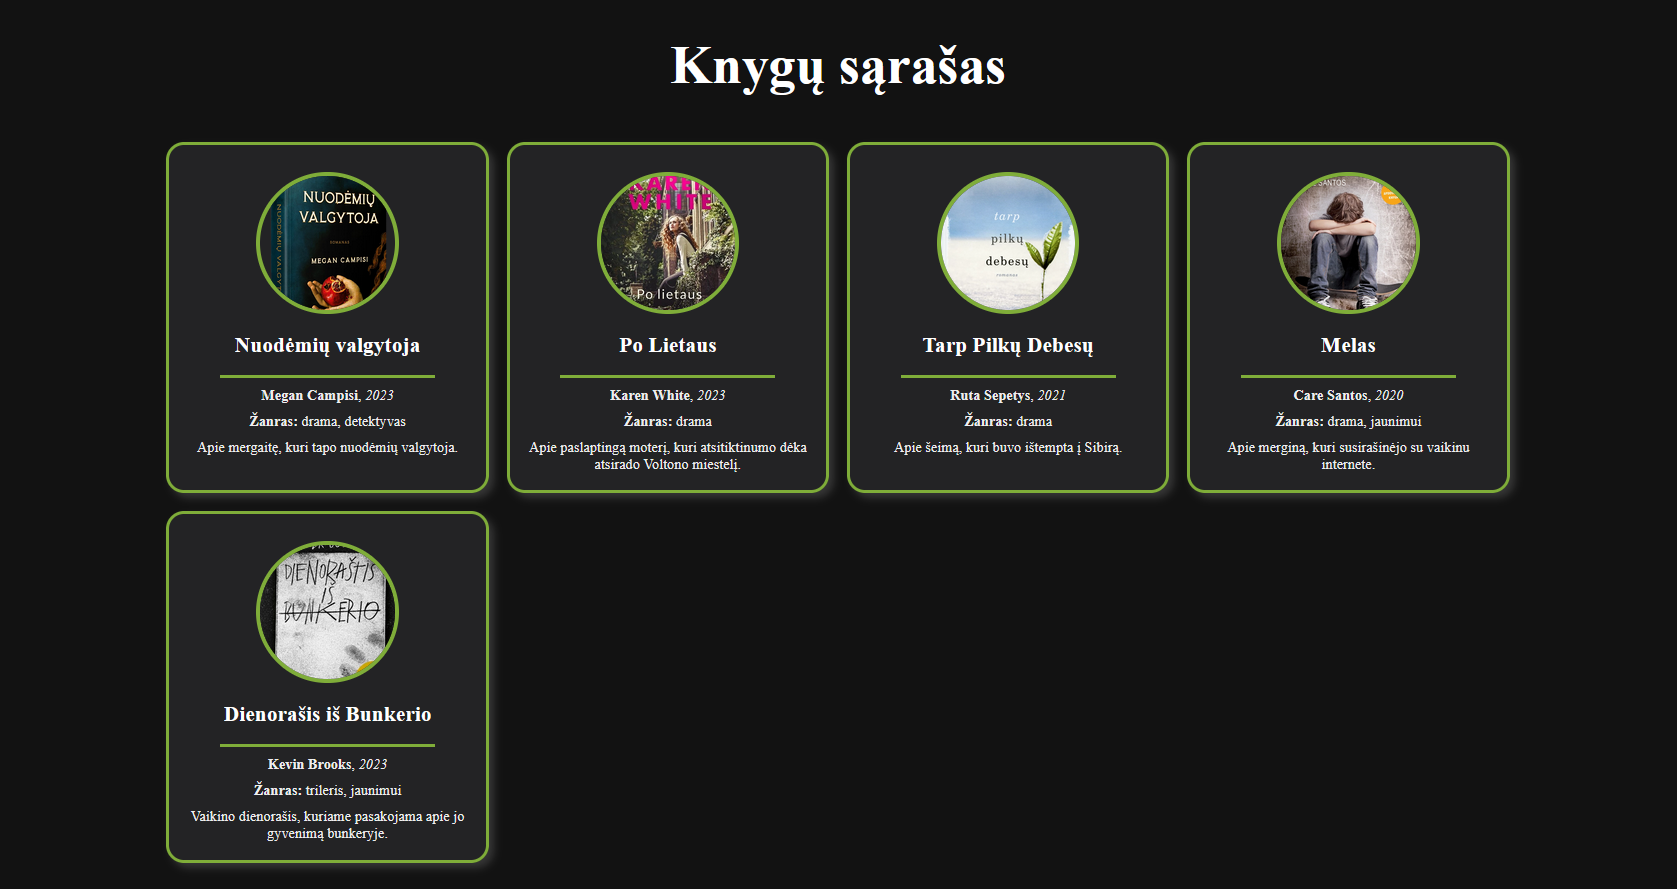
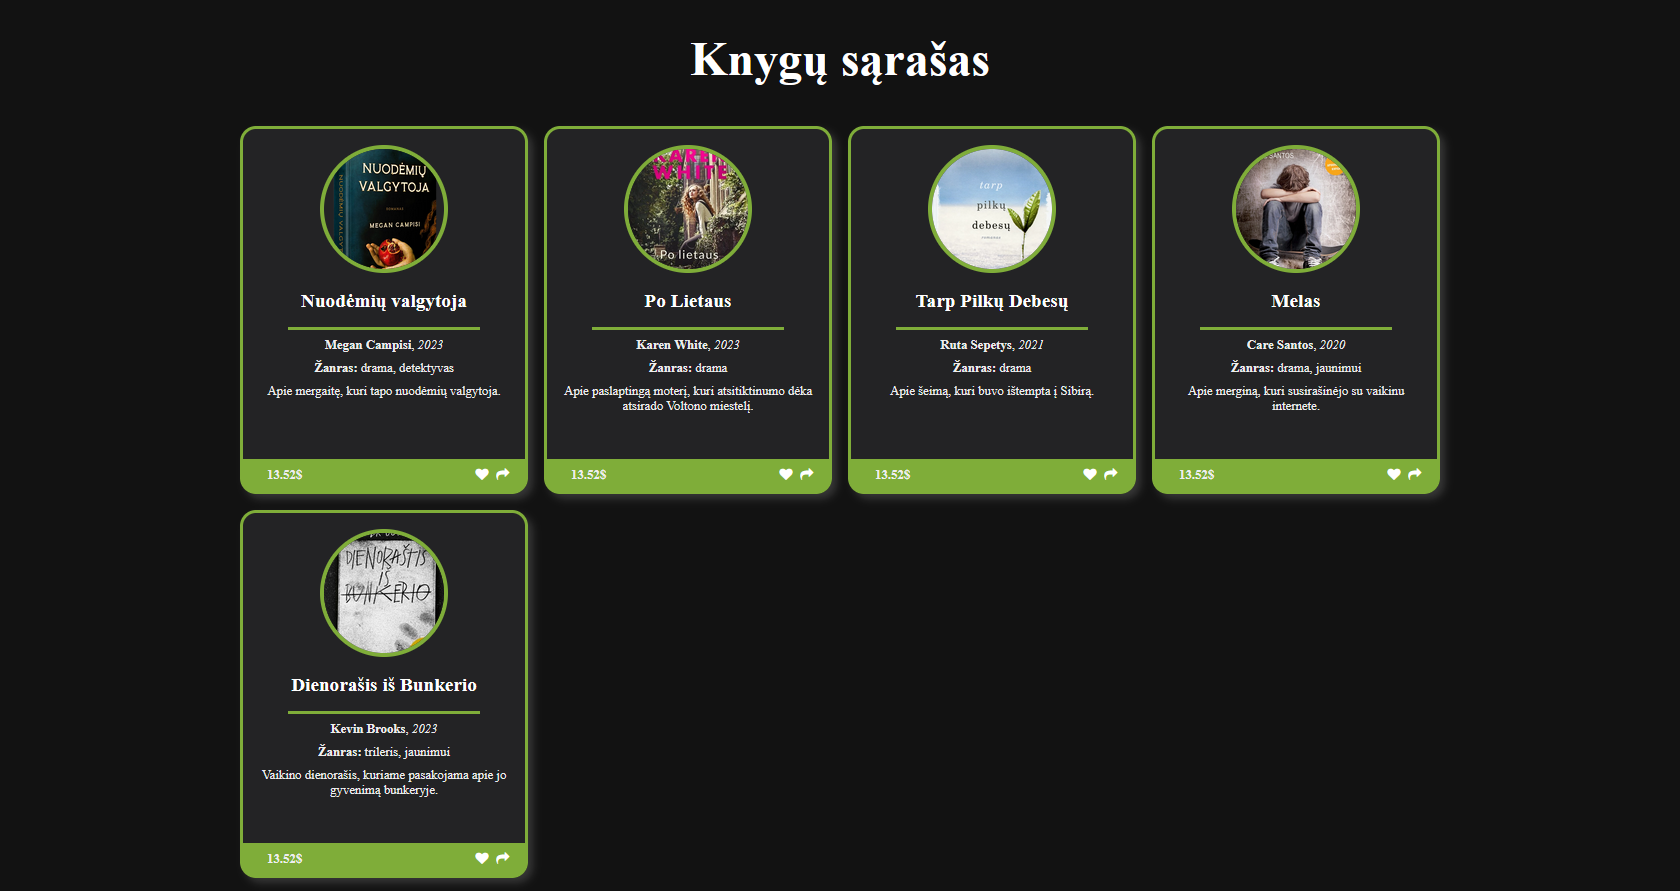
add footer to cards

Changed region(s): [[0.093, 0.0304, 0.8992, 1.0]]

diff --git a/002/index.html b/002/index.html
@@ -4,6 +4,10 @@
     <meta charset="UTF-8" />
     <meta name="viewport" content="width=device-width, initial-scale=1.0" />
     <link rel="stylesheet" href="http://127.0.0.1:5500/style.css" />
+    <link
+      rel="stylesheet"
+      href="https://cdnjs.cloudflare.com/ajax/libs/font-awesome/4.7.0/css/font-awesome.min.css"
+    />
     <title>Knygų sąrašas</title>
   </head>
   <body>
@@ -24,83 +28,130 @@
     <div class="box">
       <div class="container">
         <div class="card">
-          <div class="image">
-            <img
-              src="https://thumb.knygos-static.lt/yvBHDWk1FqPqIIgg1s0xCrp6uFs=/fit-in/0x800/images/books/13837180/1686126631_nuodemiu_valgytoja_3d1s.png"
-              alt="Nuodėmių Valgytoja"
-            />
-          </div>
-          <h2>
-            <a href="http://127.0.0.1:5500/nuodemiu.html">Nuodėmių valgytoja</a>
-          </h2>
-          <hr class="underline" />
-          <p><b>Megan Campisi</b>, <i>2023</i></p>
+          <div>
+            <div class="image">
+              <img
+                src="https://thumb.knygos-static.lt/yvBHDWk1FqPqIIgg1s0xCrp6uFs=/fit-in/0x800/images/books/13837180/1686126631_nuodemiu_valgytoja_3d1s.png"
+                alt="Nuodėmių Valgytoja"
+              />
+            </div>
+            <h2>
+              <a href="http://127.0.0.1:5500/nuodemiu.html"
+                >Nuodėmių valgytoja</a
+              >
+            </h2>
+            <hr class="underline" />
+            <p><b>Megan Campisi</b>, <i>2023</i></p>
 
-          <p><b>Žanras:</b> drama, detektyvas</p>
-          <p>Apie mergaitę, kuri tapo nuodėmių valgytoja.</p>
+            <p><b>Žanras:</b> drama, detektyvas</p>
+            <p>Apie mergaitę, kuri tapo nuodėmių valgytoja.</p>
+          </div>
+          <div class="price">
+            <p>13.52$</p>
+            <div class="icons">
+              <p><i class="fa fa-heart"></i></p>
+              <p><i class="fa fa-share"></i></p>
+            </div>
+          </div>
         </div>
         <div class="card">
-          <div class="image">
-            <img
-              src="https://thumb.knygos-static.lt/CqX7gng_Ya7lJZtebvyIUpOrekM=/fit-in/0x800/images/books/2711407/1666957448_po-lietaus-1.jpg"
-              alt="Po Lietaus"
-            />
+          <div>
+            <div class="image">
+              <img
+                src="https://thumb.knygos-static.lt/CqX7gng_Ya7lJZtebvyIUpOrekM=/fit-in/0x800/images/books/2711407/1666957448_po-lietaus-1.jpg"
+                alt="Po Lietaus"
+              />
+            </div>
+            <h2><a href="http://127.0.0.1:5500/lietaus.html">Po Lietaus</a></h2>
+            <hr class="underline" />
+            <p><b>Karen White</b>, <i>2023</i></p>
+            <p><b>Žanras: </b>drama</p>
+            <p>
+              Apie paslaptingą moterį, kuri atsitiktinumo dėka atsirado Voltono
+              miestelį.
+            </p>
           </div>
-          <h2><a href="http://127.0.0.1:5500/lietaus.html">Po Lietaus</a></h2>
-          <hr class="underline" />
-          <p><b>Karen White</b>, <i>2023</i></p>
-          <p><b>Žanras: </b>drama</p>
-          <p>
-            Apie paslaptingą moterį, kuri atsitiktinumo dėka atsirado Voltono
-            miestelį.
-          </p>
+          <div class="price">
+            <p>13.52$</p>
+            <div class="icons">
+              <p><i class="fa fa-heart"></i></p>
+              <p><i class="fa fa-share"></i></p>
+            </div>
+          </div>
         </div>
         <div class="card">
-          <div class="image">
-            <img
-              src="https://thumb.knygos-static.lt/L9LnXa3X5MugZiY8Musgps21BSg=/fit-in/0x800/images/books/2501/1462873291_tarppilkudebesu.jpg"
-              alt="Tarp Pilkų Debesų"
-            />
+          <div>
+            <div class="image">
+              <img
+                src="https://thumb.knygos-static.lt/L9LnXa3X5MugZiY8Musgps21BSg=/fit-in/0x800/images/books/2501/1462873291_tarppilkudebesu.jpg"
+                alt="Tarp Pilkų Debesų"
+              />
+            </div>
+            <h2>
+              <a href="http://127.0.0.1:5500/debesu.html">Tarp Pilkų Debesų</a>
+            </h2>
+            <hr class="underline" />
+            <p><b>Ruta Sepetys</b>, <i>2021</i></p>
+            <p><b>Žanras:</b> drama</p>
+            <p>Apie šeimą, kuri buvo ištempta į Sibirą.</p>
           </div>
-          <h2>
-            <a href="http://127.0.0.1:5500/debesu.html">Tarp Pilkų Debesų</a>
-          </h2>
-          <hr class="underline" />
-          <p><b>Ruta Sepetys</b>, <i>2021</i></p>
-          <p><b>Žanras:</b> drama</p>
-          <p>Apie šeimą, kuri buvo ištempta į Sibirą.</p>
+          <div class="price">
+            <p>13.52$</p>
+            <div class="icons">
+              <p><i class="fa fa-heart"></i></p>
+              <p><i class="fa fa-share"></i></p>
+            </div>
+          </div>
         </div>
         <div class="card">
-          <div class="image">
-            <img
-              src="https://thumb.knygos-static.lt/PfisbRqjA7HiyoDBnzF0jGxHslE=/fit-in/0x800/images/books/1497902/1589972630_Melas_virselis.jpg"
-              alt="Melas"
-            />
+          <div>
+            <div class="image">
+              <img
+                src="https://thumb.knygos-static.lt/PfisbRqjA7HiyoDBnzF0jGxHslE=/fit-in/0x800/images/books/1497902/1589972630_Melas_virselis.jpg"
+                alt="Melas"
+              />
+            </div>
+            <h2><a href="http://127.0.0.1:5500/melas.html">Melas</a></h2>
+            <hr class="underline" />
+            <p><b>Care Santos</b>, <i>2020</i></p>
+            <p><b>Žanras:</b> drama, jaunimui</p>
+            <p>Apie merginą, kuri susirašinėjo su vaikinu internete.</p>
           </div>
-          <h2><a href="http://127.0.0.1:5500/melas.html">Melas</a></h2>
-          <hr class="underline" />
-          <p><b>Care Santos</b>, <i>2020</i></p>
-          <p><b>Žanras:</b> drama, jaunimui</p>
-          <p>Apie merginą, kuri susirašinėjo su vaikinu internete.</p>
+          <div class="price">
+            <p>13.52$</p>
+            <div class="icons">
+              <p><i class="fa fa-heart"></i></p>
+              <p><i class="fa fa-share"></i></p>
+            </div>
+          </div>
         </div>
         <div class="card">
-          <div class="image">
-            <img
-              src="https://thumb.knygos-static.lt/5F63n_P0rRfrywgQ-0AOrcJg0Eg=/fit-in/0x800/images/books/2506439/1617020428_Picture2.png"
-              alt="Dienorašis iš Bunkerio"
-            />
+          <div>
+            <div class="image">
+              <img
+                src="https://thumb.knygos-static.lt/5F63n_P0rRfrywgQ-0AOrcJg0Eg=/fit-in/0x800/images/books/2506439/1617020428_Picture2.png"
+                alt="Dienorašis iš Bunkerio"
+              />
+            </div>
+            <h2>
+              <a href="http://127.0.0.1:5500/bunkeris.html"
+                >Dienorašis iš Bunkerio</a
+              >
+            </h2>
+            <hr class="underline" />
+            <p><b>Kevin Brooks</b>, <i>2023</i></p>
+            <p><b>Žanras:</b> trileris, jaunimui</p>
+            <p>
+              Vaikino dienorašis, kuriame pasakojama apie jo gyvenimą bunkeryje.
+            </p>
           </div>
-          <h2>
-            <a href="http://127.0.0.1:5500/bunkeris.html"
-              >Dienorašis iš Bunkerio</a
-            >
-          </h2>
-          <hr class="underline" />
-          <p><b>Kevin Brooks</b>, <i>2023</i></p>
-          <p><b>Žanras:</b> trileris, jaunimui</p>
-          <p>
-            Vaikino dienorašis, kuriame pasakojama apie jo gyvenimą bunkeryje.
-          </p>
+          <div class="price">
+            <p>13.52$</p>
+            <div class="icons">
+              <p><i class="fa fa-heart"></i></p>
+              <p><i class="fa fa-share"></i></p>
+            </div>
+          </div>
         </div>
       </div>
     </div>

diff --git a/002/style.css b/002/style.css
@@ -21,13 +21,17 @@ h1 {
 .card {
   border-radius: 20px;
   margin: 10px;
-  padding: 10px;
+  /* padding: 10px; */
   width: 360px;
+  height: 460px;
   background-color: #232325;
   box-shadow: 6px 6px 10px 0px rgba(255, 255, 255, 0.15);
   box-sizing: border-box;
   text-align: center;
   border: 4px solid #7fad39;
+  display: flex;
+  flex-direction: column;
+  justify-content: space-between;
 }
 
 .image {
@@ -59,11 +63,11 @@ h1 {
   border: 0;
 }
 
-.card > h2 {
+.card > div > h2 {
   color: #fff;
 }
 
-.card > p {
+.card > div > p {
   margin: 10px;
   color: #eee;
 }
@@ -75,6 +79,34 @@ a {
 
 a:hover {
   color: #ccc;
+}
+
+.price {
+  background-color: #7fad39;
+  height: 40px;
+  border-radius: 0 0 10px 10px;
+  color: #fff;
+  display: flex;
+  justify-content: space-between;
+  align-items: center;
+  font-size: 16px;
+  padding: 0 20px;
+}
+
+.price > p {
+  font-weight: bold;
+}
+
+.icons > p:hover {
+  color: #444;
+  cursor: pointer;
+}
+
+.icons {
+  display: flex;
+  justify-content: center;
+  align-items: center;
+  gap: 10px;
 }
 
 /* Other pages */
